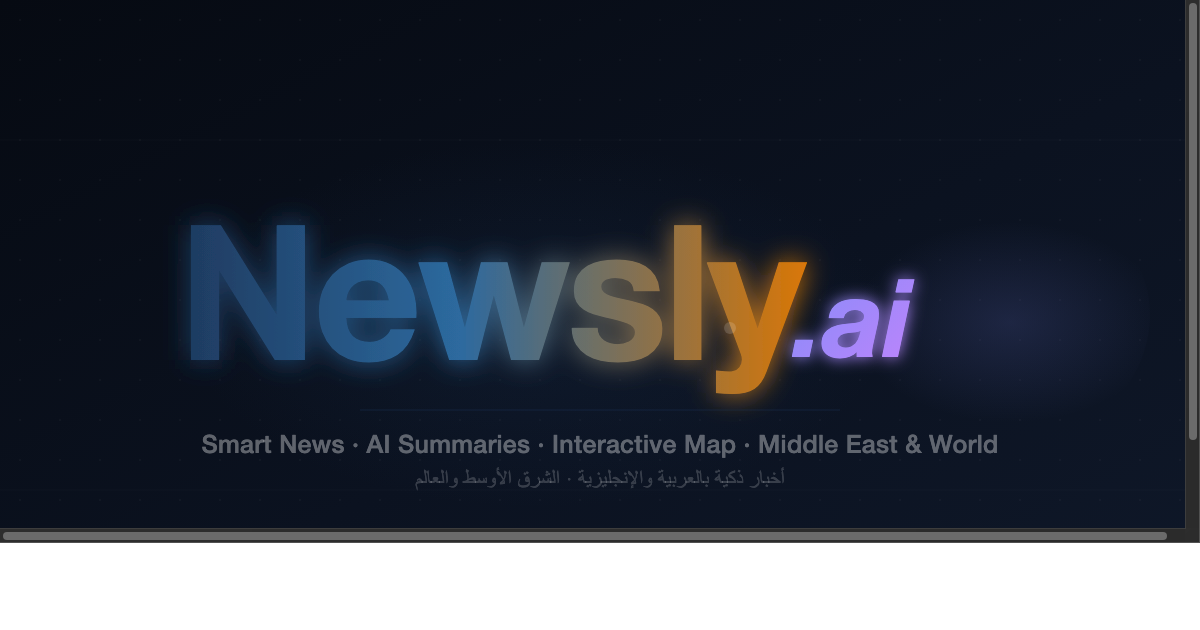
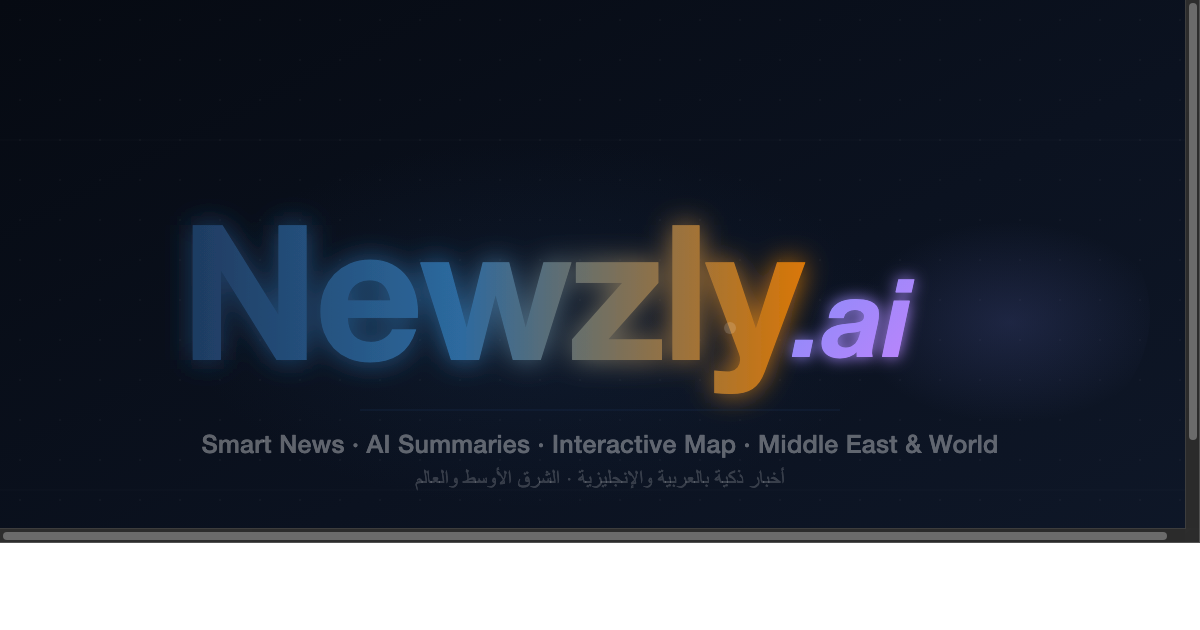
feat: rebrand Newsly → Newzly across all files
- All display-facing brand text updated: UI, footer, policy/terms, share
  modals, OG/Twitter meta, structured data, PWA app name, page title
- Cookie names updated: newsly_lang → newzly_lang, newsly_hours → newzly_hours
- SVG banners updated to NEWZLY.AI; PNGs regenerated via Chrome headless
- Internal component names (NewsCard, NewsMap, etc.) unchanged
- Render subdomain URL unchanged (infrastructure)

diff --git a/frontend/src/components/PolicyModal.vue b/frontend/src/components/PolicyModal.vue
@@ -54,8 +54,8 @@ const POLICIES = {
         {
           heading: 'Overview',
           paragraphs: [
-            'Newsly is a free news aggregation service operated by DU Soft, Cairo, Egypt. We take your privacy seriously. This policy explains what data we collect, why, and how we protect it.',
-            'Newsly does not require account registration. You can use the full service without providing any personal information.'
+            'Newzly is a free news aggregation service operated by DU Soft, Cairo, Egypt. We take your privacy seriously. This policy explains what data we collect, why, and how we protect it.',
+            'Newzly does not require account registration. You can use the full service without providing any personal information.'
           ]
         },
         {
@@ -76,7 +76,7 @@ const POLICIES = {
         },
         {
           heading: 'Third-Party Services',
-          paragraphs: ['Newsly aggregates headlines from third-party news APIs. When you click an article, you leave Newsly and enter the publisher\'s website — their privacy policy applies. We are not responsible for third-party data practices.'],
+          paragraphs: ['Newzly aggregates headlines from third-party news APIs. When you click an article, you leave Newzly and enter the publisher\'s website — their privacy policy applies. We are not responsible for third-party data practices.'],
           bullets: [
             'News content: NewsAPI, GNews — their respective terms apply.',
             'AI summaries: OpenAI API — prompts contain only article headlines, no user data.'
@@ -91,7 +91,7 @@ const POLICIES = {
         },
         {
           heading: 'Changes to This Policy',
-          paragraphs: ['We may update this policy. The "last updated" date above will reflect any changes. Continued use of Newsly after changes constitutes acceptance of the updated policy.']
+          paragraphs: ['We may update this policy. The "last updated" date above will reflect any changes. Continued use of Newzly after changes constitutes acceptance of the updated policy.']
         }
       ]
     },
@@ -152,22 +152,22 @@ const POLICIES = {
         {
           heading: 'Acceptance of Terms',
           paragraphs: [
-            'By using Newsly ("the Service"), you agree to these Terms of Service. If you do not agree, please do not use the Service. These terms are governed by the laws of Egypt.',
-            'Newsly is operated by DU Soft, Cairo, Egypt. We reserve the right to modify these terms at any time.'
+            'By using Newzly ("the Service"), you agree to these Terms of Service. If you do not agree, please do not use the Service. These terms are governed by the laws of Egypt.',
+            'Newzly is operated by DU Soft, Cairo, Egypt. We reserve the right to modify these terms at any time.'
           ]
         },
         {
           heading: 'Description of Service',
           paragraphs: [
-            'Newsly is a news aggregation platform. We display headlines, summaries, and metadata sourced from publicly available news APIs. We do not produce original journalism.',
-            'Article content belongs to the original publishers. Newsly displays excerpts and links to source articles. Full articles are accessed on the publisher\'s website.'
+            'Newzly is a news aggregation platform. We display headlines, summaries, and metadata sourced from publicly available news APIs. We do not produce original journalism.',
+            'Article content belongs to the original publishers. Newzly displays excerpts and links to source articles. Full articles are accessed on the publisher\'s website.'
           ]
         },
         {
           heading: 'Acceptable Use',
           paragraphs: ['You agree not to:'],
           bullets: [
-            'Scrape, crawl, or systematically extract data from Newsly.',
+            'Scrape, crawl, or systematically extract data from Newzly.',
             'Use the Service to republish aggregated content commercially without permission.',
             'Attempt to reverse-engineer, disrupt, or overwhelm our servers.',
             'Use automated tools to interact with the Service without written consent from DU Soft.'
@@ -176,7 +176,7 @@ const POLICIES = {
         {
           heading: 'Intellectual Property',
           paragraphs: [
-            'The Newsly name, logo, and UI design are property of DU Soft. All rights reserved.',
+            'The Newzly name, logo, and UI design are property of DU Soft. All rights reserved.',
             'News article titles, descriptions, and images are property of their respective publishers. We display them under fair use for news aggregation purposes.'
           ]
         },
@@ -184,7 +184,7 @@ const POLICIES = {
           heading: 'Disclaimer of Warranties',
           paragraphs: [
             'The Service is provided "as is" without warranties of any kind. We do not guarantee the accuracy, completeness, or timeliness of aggregated news content.',
-            'We are not responsible for the content of linked third-party articles, opinions expressed therein, or any decisions made based on information found through Newsly.'
+            'We are not responsible for the content of linked third-party articles, opinions expressed therein, or any decisions made based on information found through Newzly.'
           ]
         },
         {
@@ -263,8 +263,8 @@ const POLICIES = {
           heading: 'Cookies We Use',
           paragraphs: ['Newsly uses only essential cookies — no advertising or tracking cookies:'],
           bullets: [
-            'newsly_lang — Stores your language preference (en/ar). Expires after 1 year.',
-            'newsly_hours — Stores your preferred time filter. Expires after 1 year.',
+            'newzly_lang — Stores your language preference (en/ar). Expires after 1 year.',
+            'newzly_hours — Stores your preferred time filter. Expires after 1 year.',
             'No session tracking cookies. No fingerprinting. No cross-site tracking.'
           ]
         },
@@ -306,8 +306,8 @@ const POLICIES = {
           heading: 'الملفات التي نستخدمها',
           paragraphs: ['تستخدم نيوزلي الملفات الأساسية فقط — لا ملفات إعلانية أو تتبعية:'],
           bullets: [
-            'newsly_lang — يحفظ تفضيل اللغة (en/ar). تنتهي صلاحيته بعد عام.',
-            'newsly_hours — يحفظ مرشح الوقت المفضّل. تنتهي صلاحيته بعد عام.',
+            'newzly_lang — يحفظ تفضيل اللغة (en/ar). تنتهي صلاحيته بعد عام.',
+            'newzly_hours — يحفظ مرشح الوقت المفضّل. تنتهي صلاحيته بعد عام.',
             'لا ملفات تتبع جلسة. لا بصمة رقمية. لا تتبع عبر المواقع.'
           ]
         },
@@ -342,25 +342,25 @@ const POLICIES = {
       updated: 'March 2026',
       sections: [
         {
-          heading: 'Nature of Newsly',
+          heading: 'Nature of Newzly',
           paragraphs: [
-            'Newsly is a news aggregation service. We display article titles, brief descriptions (excerpts), publication dates, and source attribution — all of which constitute fair use under applicable law for the purpose of news indexing and commentary.',
+            'Newzly is a news aggregation service. We display article titles, brief descriptions (excerpts), publication dates, and source attribution — all of which constitute fair use under applicable law for the purpose of news indexing and commentary.',
             'We do not reproduce full article bodies. All articles link directly to the original publisher.'
           ]
         },
         {
           heading: 'Copyright Ownership',
-          paragraphs: ['All news article content (titles, images, descriptions) remains the intellectual property of the original publisher. Newsly claims no ownership over aggregated content.']
+          paragraphs: ['All news article content (titles, images, descriptions) remains the intellectual property of the original publisher. Newzly claims no ownership over aggregated content.']
         },
         {
           heading: 'DMCA Takedown Requests',
           paragraphs: [
-            'If you are a copyright holder and believe Newsly displays your content in a manner that infringes your rights, please contact us at legal@dusoft.org with:',
+            'If you are a copyright holder and believe Newzly displays your content in a manner that infringes your rights, please contact us at legal@dusoft.org with:',
           ],
           bullets: [
             'Your name and contact information.',
             'A description of the copyrighted work you believe is infringed.',
-            'The specific URL on Newsly where the content appears.',
+            'The specific URL on Newzly where the content appears.',
             'A statement that you have a good-faith belief the use is not authorized.',
             'Your physical or electronic signature.'
           ]
@@ -371,7 +371,7 @@ const POLICIES = {
         },
         {
           heading: 'News API Sources',
-          paragraphs: ['Newsly sources content via licensed news APIs (NewsAPI, GNews). These providers have their own agreements with publishers. Our display of their data is within the scope of those licenses.']
+          paragraphs: ['Newzly sources content via licensed news APIs (NewsAPI, GNews). These providers have their own agreements with publishers. Our display of their data is within the scope of those licenses.']
         }
       ]
     },

diff --git a/frontend/index.html b/frontend/index.html
@@ -16,32 +16,32 @@
   <meta name="mobile-web-app-capable" content="yes">
   <meta name="apple-mobile-web-app-capable" content="yes">
   <meta name="apple-mobile-web-app-status-bar-style" content="black-translucent">
-  <meta name="apple-mobile-web-app-title" content="Newsly">
-  <meta name="application-name" content="Newsly">
+  <meta name="apple-mobile-web-app-title" content="Newzly">
+  <meta name="application-name" content="Newzly">
 
-  <title>Newsly - Smart Global News Aggregator</title>
-  <meta name="description" content="Newsly — Smart bilingual news aggregator covering the Middle East and world. Real-time stories in English and Arabic, AI summaries, and interactive map. أخبار ذكية بالعربية والإنجليزية.">
+  <title>Newzly - Smart Global News Aggregator</title>
+  <meta name="description" content="Newzly — Smart bilingual news aggregator covering the Middle East and world. Real-time stories in English and Arabic, AI summaries, and interactive map. أخبار ذكية بالعربية والإنجليزية.">
 
   <!-- Open Graph (Facebook, WhatsApp, LinkedIn) -->
   <meta property="og:type"        content="website">
-  <meta property="og:site_name"   content="Newsly">
+  <meta property="og:site_name"   content="Newzly">
   <meta property="og:url"         content="https://newsly-jeur.onrender.com">
-  <meta property="og:title"       content="Newsly — أخبار ذكية | Smart Bilingual News">
+  <meta property="og:title"       content="Newzly — أخبار ذكية | Smart Bilingual News">
   <meta property="og:description" content="Real-time news from the Middle East and the world — in English and Arabic. AI summaries, interactive map, and trending topics. أخبار عاجلة بالعربية والإنجليزية مع ملخصات ذكاء اصطناعي.">
   <meta property="og:image"        content="https://newsly-jeur.onrender.com/og-banner.png">
   <meta property="og:image:type"   content="image/png">
   <meta property="og:image:width"  content="1200">
   <meta property="og:image:height" content="630">
-  <meta property="og:image:alt"    content="Newsly — Smart Bilingual News Aggregator">
+  <meta property="og:image:alt"    content="Newzly — Smart Bilingual News Aggregator">
   <meta property="og:locale"      content="en_US">
   <meta property="og:locale:alternate" content="ar_AR">
 
   <!-- Twitter / X Card -->
   <meta name="twitter:card"        content="summary_large_image">
-  <meta name="twitter:title"       content="Newsly — أخبار ذكية | Smart Bilingual News">
+  <meta name="twitter:title"       content="Newzly — أخبار ذكية | Smart Bilingual News">
   <meta name="twitter:description" content="Real-time news from the Middle East and the world — in English and Arabic. AI summaries, interactive map, trending topics.">
   <meta name="twitter:image"       content="https://newsly-jeur.onrender.com/og-banner.png">
-  <meta name="twitter:image:alt"   content="Newsly — Smart Bilingual News Aggregator">
+  <meta name="twitter:image:alt"   content="Newzly — Smart Bilingual News Aggregator">
 
   <!-- Google Analytics 4 -->
   <script async src="https://www.googletagmanager.com/gtag/js?id=G-1N9T3BP2T6"></script>
@@ -66,7 +66,7 @@
   {
     "@context": "https://schema.org",
     "@type": "NewsMediaOrganization",
-    "name": "Newsly",
+    "name": "Newzly",
     "url": "https://newsly-jeur.onrender.com",
     "logo": "https://newsly-jeur.onrender.com/og-banner.png",
     "description": "Smart bilingual news aggregator — Middle East & World",

diff --git a/frontend/src/components/ShareModal.vue b/frontend/src/components/ShareModal.vue
@@ -21,7 +21,7 @@
             <span class="sp-card-source">{{ article.source || 'News' }}</span>
             <p class="sp-card-title">{{ article.title }}</p>
             <div class="sp-card-footer">
-              <span class="sp-newsly-badge">Newsly</span>
+              <span class="sp-newzly-badge">Newsly</span>
               <span class="sp-card-date">{{ formattedDate }}</span>
             </div>
           </div>
@@ -102,19 +102,19 @@ export default {
       return url.length > 65 ? url.slice(0, 62) + '...' : url
     })
 
-    // Unique Newsly article page URL — shared instead of the raw article URL
-    const newslyUrl = computed(() =>
+    // Unique Newzly article page URL — shared instead of the raw article URL
+    const newzlyUrl = computed(() =>
       `${window.location.origin}/#article=${btoa(encodeURIComponent(props.article.url || ''))}`
     )
 
     const xUrl = computed(() => {
-      const text = encodeURIComponent(`"${props.article.title}" via ${props.article.source || 'Newsly'}`)
-      const url = encodeURIComponent(newslyUrl.value)
+      const text = encodeURIComponent(`"${props.article.title}" via ${props.article.source || 'Newzly'}`)
+      const url = encodeURIComponent(newzlyUrl.value)
       return `https://twitter.com/intent/tweet?text=${text}&url=${url}`
     })
 
     const waUrl = computed(() => {
-      const text = encodeURIComponent(`${props.article.title}\n${newslyUrl.value}`)
+      const text = encodeURIComponent(`${props.article.title}\n${newzlyUrl.value}`)
       return `https://wa.me/?text=${text}`
     })
 
@@ -122,8 +122,8 @@ export default {
       try {
         await navigator.share({
           title: props.article.title,
-          text: `${props.article.title} — via ${props.article.source || 'Newsly'}`,
-          url: newslyUrl.value
+          text: `${props.article.title} — via ${props.article.source || 'Newzly'}`,
+          url: newzlyUrl.value
         })
       } catch (e) {
         if (e.name !== 'AbortError') console.warn('Share failed:', e)
@@ -132,14 +132,14 @@ export default {
 
     const copyLink = async () => {
       try {
-        await navigator.clipboard.writeText(newslyUrl.value)
+        await navigator.clipboard.writeText(newzlyUrl.value)
         linkCopied.value = true
         setTimeout(() => { linkCopied.value = false }, 2000)
       } catch (e) { console.warn('Copy failed:', e) }
     }
 
     const copyText = async () => {
-      const text = `"${props.article.title}" — ${props.article.source || ''}\n${newslyUrl.value}`
+      const text = `"${props.article.title}" — ${props.article.source || ''}\n${newzlyUrl.value}`
       try {
         await navigator.clipboard.writeText(text)
         textCopied.value = true
@@ -150,7 +150,7 @@ export default {
     return {
       canShare, accentColor, formattedDate,
       truncatedUrl: computed(() => {
-        const u = newslyUrl.value
+        const u = newzlyUrl.value
         return u.length > 65 ? u.slice(0, 62) + '...' : u
       }),
       xUrl, waUrl, linkCopied, textCopied,
@@ -268,7 +268,7 @@ export default {
   justify-content: space-between;
 }
 
-.sp-newsly-badge {
+.sp-newzly-badge {
   font-size: 0.65rem;
   font-weight: 700;
   color: #a8a29e;

diff --git a/frontend/src/App.vue b/frontend/src/App.vue
@@ -7,7 +7,7 @@
     <header class="mobile-header">
       <div class="header-content">
         <h1 class="logo">
-          <span class="gradient-text">{{ uiLanguage === 'ar' ? 'نيوزلي' : 'Newsly' }}</span>
+          <span class="gradient-text">{{ uiLanguage === 'ar' ? 'نيوزلي' : 'Newzly' }}</span>
           <span class="pulse-dot"></span>
         </h1>
 
@@ -207,7 +207,7 @@
       @close="closeArticleDetail"
     />
 
-    <!-- Article Detail Modal: opened via shared Newsly link (#article=slug) -->
+    <!-- Article Detail Modal: opened via shared Newzly link (#article=slug) -->
     <ArticleDetailModal
       v-else-if="articleDetailSlug"
       :articleSlug="articleDetailSlug"
@@ -215,7 +215,7 @@
       @close="closeArticleDetail"
     />
 
-    <!-- Article Detail Modal: opened via shared Newsly link (#article=BASE64) -->
+    <!-- Article Detail Modal: opened via shared Newzly link (#article=BASE64) -->
     <ArticleDetailModal
       v-else-if="articleDetailUrl"
       :articleUrl="articleDetailUrl"
@@ -708,7 +708,7 @@ export default {
         }
       }
 
-      trackPageView('Newsly Home')
+      trackPageView('Newzly Home')
       fetchNews()
       fetchTrending()
       // Show a global briefing card immediately on load

diff --git a/frontend/src/components/AppFooter.vue b/frontend/src/components/AppFooter.vue
@@ -5,7 +5,7 @@
       <!-- Brand + Tagline -->
       <div class="footer-brand">
         <div class="footer-logo">
-          <span class="footer-logo-text">{{ uiLanguage === 'ar' ? 'نيوزلي' : 'Newsly' }}</span>
+          <span class="footer-logo-text">{{ uiLanguage === 'ar' ? 'نيوزلي' : 'Newzly' }}</span>
           <span class="footer-dot"></span>
         </div>
         <p class="footer-tagline">
@@ -103,7 +103,7 @@
       <!-- Bottom bar -->
       <div class="footer-bottom">
         <span class="footer-copyright">
-          © {{ currentYear }} Newsly &mdash;
+          © {{ currentYear }} Newzly &mdash;
           {{ uiLanguage === 'ar' ? 'بُني بواسطة DU Soft، القاهرة' : 'Built by DU Soft, Cairo' }}
         </span>
         <div class="footer-socials">

diff --git a/frontend/src/components/ArticleDetailModal.vue b/frontend/src/components/ArticleDetailModal.vue
@@ -157,7 +157,7 @@ export default {
         .join('-')
     }
 
-    const newslyShareUrl = computed(() => {
+    const newzlyShareUrl = computed(() => {
       if (!article.value?.url) return window.location.href
       const slug = generateSlug(article.value.title)
       if (slug) return `${window.location.origin}/#article=${slug}`
@@ -166,7 +166,7 @@ export default {
 
     const copyShareLink = async () => {
       try {
-        await navigator.clipboard.writeText(newslyShareUrl.value)
+        await navigator.clipboard.writeText(newzlyShareUrl.value)
         copied.value = true
         setTimeout(() => { copied.value = false }, 2000)
       } catch (e) { console.warn('Copy failed', e) }

diff --git a/backend/server.js b/backend/server.js
@@ -61,10 +61,10 @@ if (process.env.NODE_ENV === 'production') {
           image: article.image_url ? [article.image_url] : [],
           datePublished: article.published_at,
           author: { '@type': 'Organization', name: article.source },
-          publisher: { '@type': 'Organization', name: 'Newsly', url: BASE_URL },
+          publisher: { '@type': 'Organization', name: 'Newzly', url: BASE_URL },
           url,
           inLanguage: article.language || 'en',
-          isPartOf: { '@type': 'Periodical', name: 'Newsly' }
+          isPartOf: { '@type': 'Periodical', name: 'Newzly' }
         })
 
         const seoHead = `

diff --git a/backend/routes/news.js b/backend/routes/news.js
@@ -567,7 +567,7 @@ router.get('/rss', async (req, res) => {
   }
 });
 
-// Fetch a single article by its original URL or title slug (used for Newsly share-link detail pages)
+// Fetch a single article by its original URL or title slug (used for Newzly share-link detail pages)
 router.get('/article', async (req, res) => {
   try {
     const { url, slug } = req.query;
